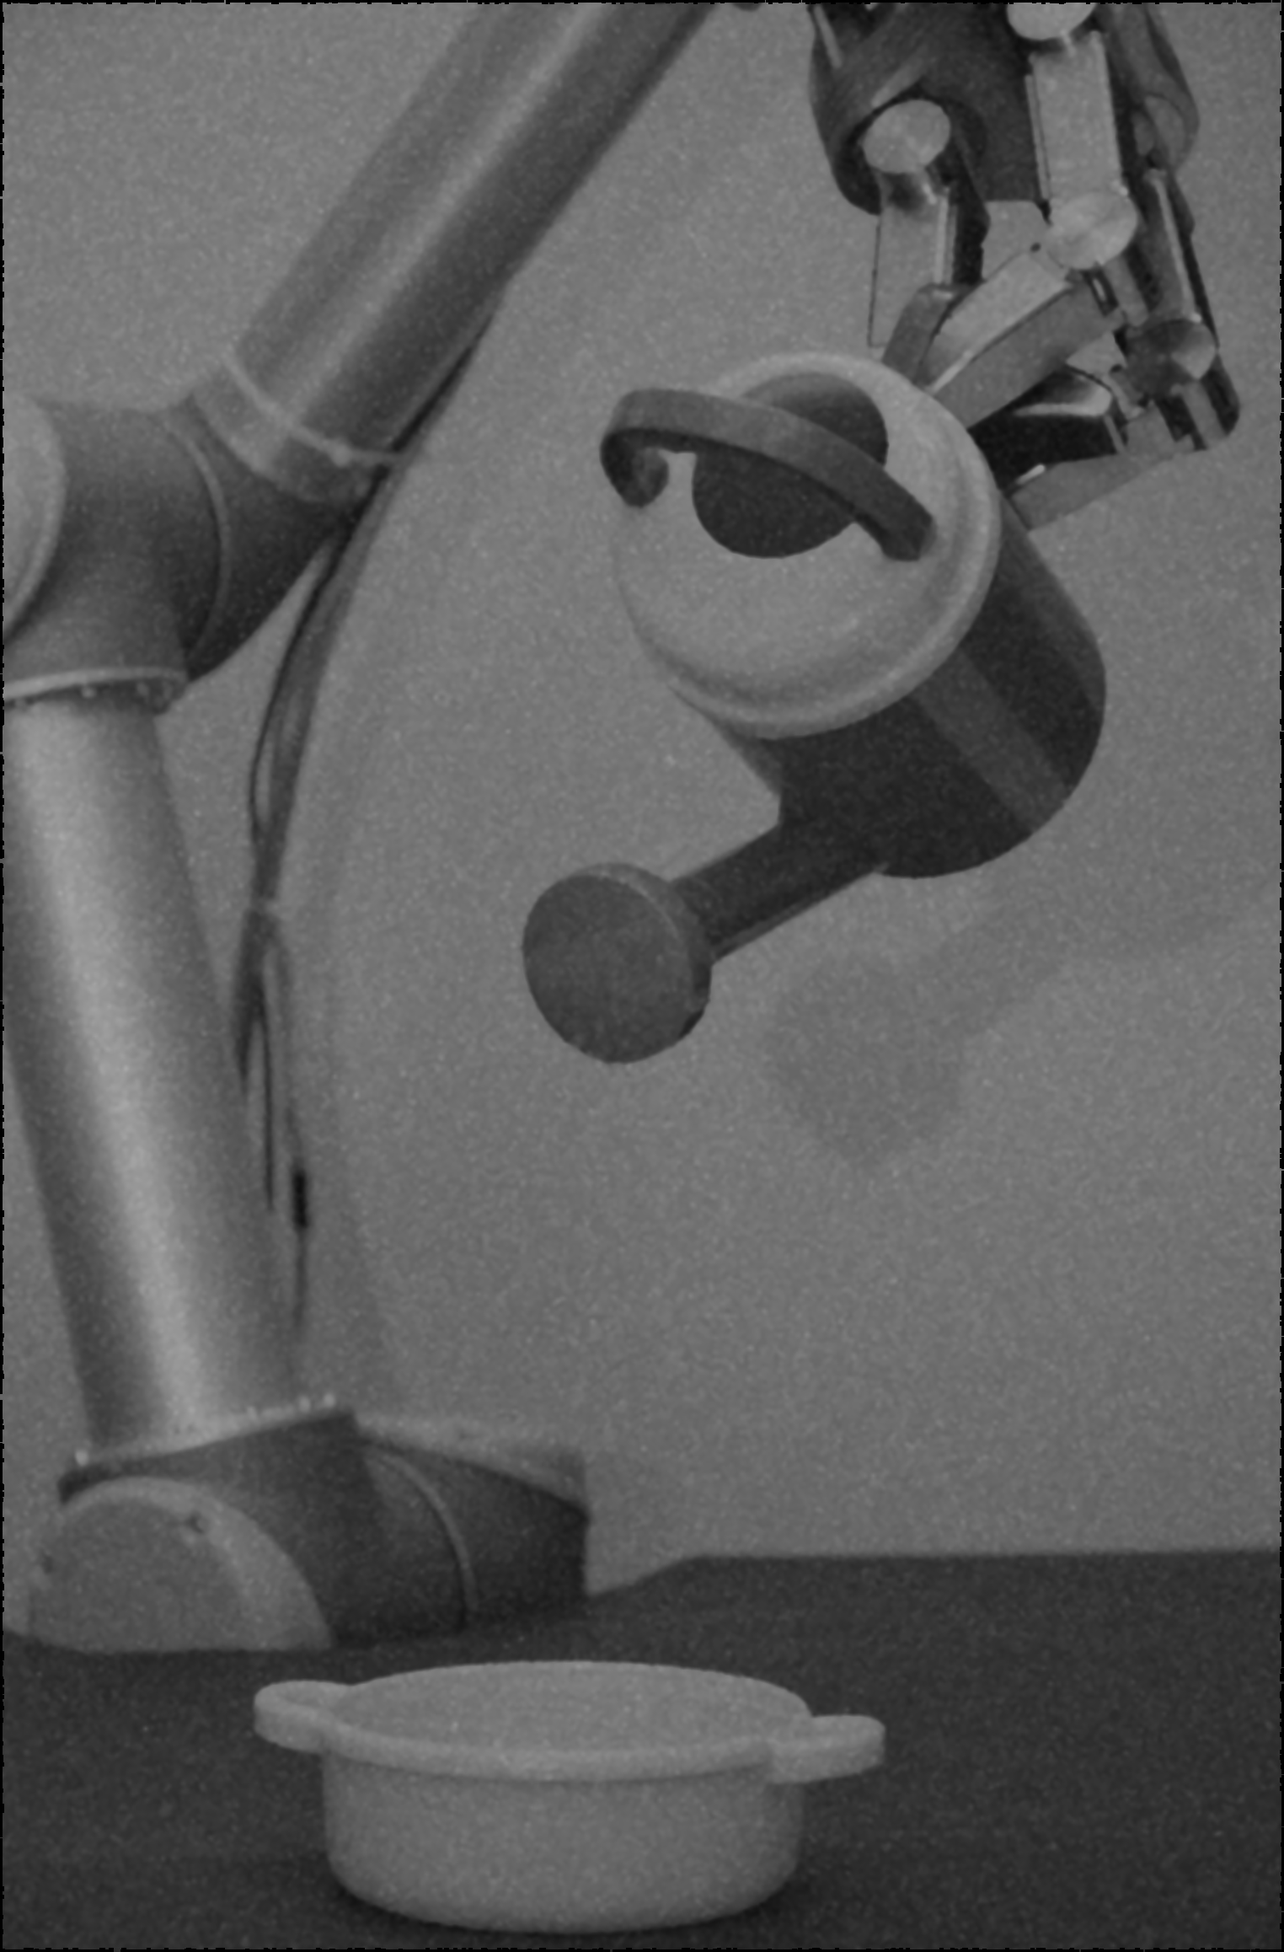
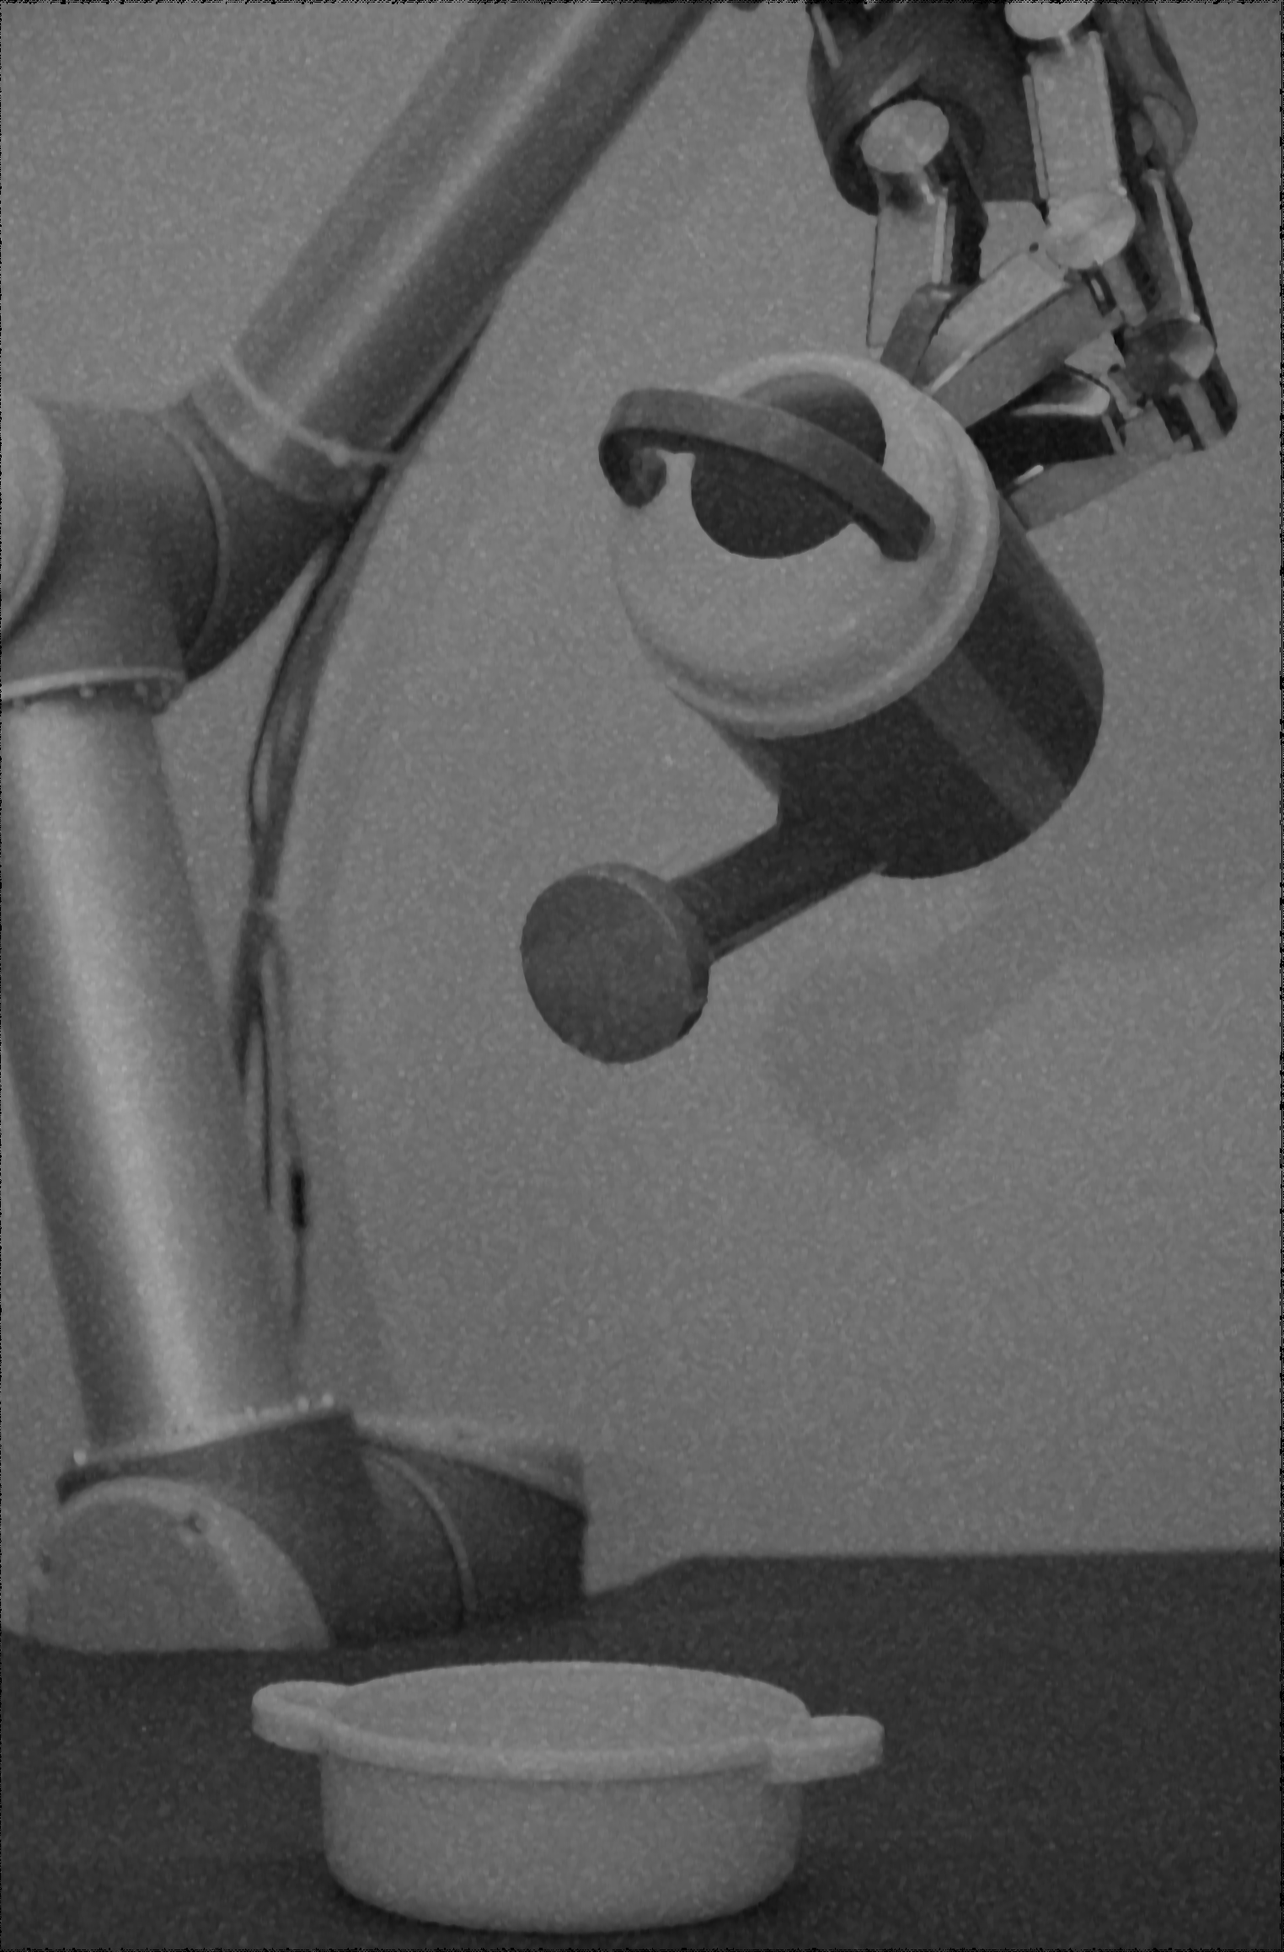
made the code more uniform

Changed region(s): [[0.0, 0.9948, 1.0, 1.0]]

diff --git a/miniproject01/code/imagerestoration/part02.cpp b/miniproject01/code/imagerestoration/part02.cpp
@@ -1,74 +1,66 @@
 #include "part02.h"
 #include "mean_filter.h"
 
-void part02(cv::Mat &image, cv::Mat &out){
+void part02(cv::Mat &image,
+            cv::Mat &final_out,
+            cv::Mat &hist_uniform,
+            cv::Mat &hist_median,
+            cv::Mat &hist_bilatteral,
+            cv::Mat &complex_median,
+            cv::Mat &complex_harmonic,
+            cv::Mat &complex_bilatteral,
+            cv::Mat &complex_histeq,
+            cv::Mat &complex_smoothed_histeq
+            ){
     cv::Mat temp, temp2;
     cv::Mat org = image.clone();
     cv::Mat uniform(org,AREA_UNIFORM);
     cv::Mat histImg, histogram;
-    //investigate uniform area
+
+//    investigate uniform area
     make_histogram(uniform,histImg,histogram);
     double quantile = what_is_the_S_P_damage(uniform);
-//    quantile = 0.55;
-        cv::imwrite("../../report/graphics/hist2_uniform.png",histImg);
-        cv::imshow("Uniform area", uniform/255);
+        hist_uniform = histImg.clone();
 
     temp = uniform.clone();
     temp2 = temp.clone();
     median_filter(uniform, temp,5,1,quantile);
     temp2 = temp.clone();
-        cv::imshow("median filter 5,1", temp / 255);
-    applyHomomorphicBlur(temp2,temp,5);
-        cv::imshow("homomophic blured", temp / 255);
+    applyHarmonicMean(temp2,temp,5);
         make_histogram(temp,histImg,histogram);
-            cv::imwrite("../../report/graphics/hist2_after_median.png",histImg);
+        hist_median = histImg.clone();
     temp2 = temp.clone();
     double mean,var;
     stat(temp2,temp,mean,var,10);
-    cv::imshow("histogram before",temp);
     std::cout << "mean: " << mean << " var: " << var << '\n';
-    applyHomomorphicBilatteral(temp2,temp,11,var,3);
+    cv::bilateralFilter(temp2,temp,11,var,3);
     temp2 = temp.clone();
-        cv::imshow("bilateral 11, 3, homomorphic uniform", temp / 255);
     make_histogram(temp,histImg,histogram);
-        cv::imwrite("../../report/graphics/hist2_after_bilatteral.png",histImg);
-        cv::imshow("histogram after1",histImg);
-    cv::imshow("median2", temp2 / 255);
+    hist_bilatteral = histImg.clone();
     double new_var;
     stat(temp2,temp,mean,new_var,10);
-    cv::imshow("histogram after",temp);
     std::cout << "mean: " << mean << " var: " << new_var << '\n';
     temp = temp2.clone();
-//    cv::waitKey(0);
 
-    cvDestroyAllWindows();
+//    Investigate complex area
     cv::Mat complex(org,AREA_COMPLEX);
     median_filter(complex,temp,5,1,quantile);
-    temp2 = temp.clone();
-        cv::imwrite("../../report/graphics/complex2_median.png",temp);
-        cv::imshow("median filtered", temp / 255);
-    applyHarmonicMean(temp2,temp,5);
-    temp2 = temp.clone();
-        cv::imwrite("../../report/graphics/complex2_harmonic.png",temp);
-        cv::imshow("harmonic mean", temp / 255);
-    applyHomomorphicBilatteral(temp2,temp,11,var,3);
-        cv::imwrite("../../report/graphics/complex2_bilatteral.png",temp);
-        cv::imshow("bilateral 11, 3, homomorphic", temp / 255);
-    temp2 = temp.clone();
-    applyHistogramEqualization(temp2,temp,15);
-    cv::imwrite("../../report/graphics/complex2_histeq.png",temp);
-    cv::imshow("hist eq", temp / 255);
-    temp = temp2.clone();
-    median_filter(temp2,temp,7,3);
-        cv::imshow("median 2", temp / 255);
-    temp2 = temp.clone();
-    applyHistogramEqualization(temp2,temp,15);
-    cv::imwrite("../../report/graphics/complex2_histeq_smoothed.png",temp);
-        cv::imshow("hist eq after", temp / 255);
-//    cv::waitKey(0);
+    complex_median = temp.clone();
+    applyHarmonicMean(complex_median,temp,5);
+    complex_harmonic = temp.clone();
+    cv::bilateralFilter(complex_harmonic,temp,11,var,3);
+    complex_bilatteral = temp.clone();
+//    See if the image gets better with equalization
+    applyHistogramEqualization(complex_bilatteral,temp,15);
+    complex_histeq = temp.clone();
 
-    //apply to large image
-    median_filter(image, out,5,1,quantile);
-    applyHarmonicMean(out, temp, 5);
-    applyHomomorphicBilatteral(temp,out,11,var,3);
+    median_filter(temp2,temp,7,3);
+    temp2 = temp.clone();
+    applyHistogramEqualization(temp2,temp,15);
+    complex_smoothed_histeq = temp.clone();
+
+//    apply to large image
+    median_filter(image, final_out,5,1,quantile);
+    applyHarmonicMean(final_out, temp, 5);
+    cv::bilateralFilter(temp,final_out,11,var,3);
 }

diff --git a/miniproject01/code/imagerestoration/part01.cpp b/miniproject01/code/imagerestoration/part01.cpp
@@ -2,7 +2,15 @@
 #include "analyse_freq.h"
 #include "mean_filter.h"
 
-void part01(cv::Mat_<float> &original_image, cv::Mat_<float> &output_image){
+void part01(cv::Mat &original_image,
+            cv::Mat &output_image,
+            cv::Mat &hist_uniform,
+            cv::Mat &hist_median,
+            cv::Mat &complex_median,
+            cv::Mat &complex_geometric_blurred,
+            cv::Mat &complex_harmonic_blurred,
+            cv::Mat &complex_difference
+            ){
     cv::Mat org = original_image.clone();
     cv::Mat temp_image;
     cv::Mat uniform(org,AREA_UNIFORM);
@@ -11,57 +19,46 @@ void part01(cv::Mat_<float> &original_image, cv::Mat_<float> &output_image){
     cv::Mat histogram;
 
     make_histogram(uniform,histImg,histogram);
-    cv::imwrite("../../report/graphics/hist1_uniform.png", histImg);
+    hist_uniform = histImg.clone();
     double quantile = what_is_the_S_P_damage(uniform);
 
     median_filter(uniform, out,3,1,quantile);
     what_is_the_S_P_damage(out);
     make_histogram(out,histImg,histogram);
-    cv::imshow("../../report/graphics/hist1_uniform1.png", histImg);
     uniform = out.clone();
     median_filter(uniform, out,7,3,quantile);
     what_is_the_S_P_damage(out);
     make_histogram(out,histImg,histogram);
-    cv::imwrite("../../report/graphics/hist1_uniform2.png", histImg);
+    hist_median = histImg.clone();
 
-    cv::imshow("uniform area", uniform / 255);
-    cv::imshow("filtered uniform area", out / 255);
-//    cv::waitKey(0);
-//    cv::destroyAllWindows();
     cv::Mat complex(org,AREA_COMPLEX);
 
     out = complex.clone();
-    cv::imshow("Original image", out / 255);
     temp_image = complex.clone();
     median_filter(complex, temp_image, 3, 1, quantile);
     complex = temp_image.clone();
 
     out = temp_image.clone();
-    cv::imshow("3x3 median filter", out / 255);
 
     median_filter(out, temp_image, 7, 3, quantile);
 
     complex = temp_image.clone();
-    cv::imwrite("../../report/graphics/complex1_step2.png", temp_image);
-    cv::imshow("7x7 median filter, mean of 3", temp_image / 255);
+    complex_median = temp_image.clone();
 
-    cv::blur(complex,temp_image,cv::Size(5,5));
-    cv::imwrite("../../report/graphics/complex1_blurred.png", temp_image);
-    cv::imshow("alm smooth",temp_image / 255);
+    applyGeometricMean(complex,temp_image,5);
+    complex_geometric_blurred = temp_image.clone();
 
-    applyHomomorphicBlur(complex,out,5);
-    cv::imwrite("../../report/graphics/complex1_homomorphic_blurred.png", out);
-    cv::imshow("homomorphic filtered",out / 255);
-//              white - black
-    complex = ((out   - temp_image)*50 + 127);
-    cv::imwrite("../../report/graphics/complex1_blurr_difference_50.png",complex);
+    applyHarmonicMean(complex,out,5);
+    complex_harmonic_blurred = out.clone();
+//              white                    - black
+    complex = ((complex_harmonic_blurred - complex_geometric_blurred)*50 + 127);
+    complex_difference = complex.clone();
 
-//    cv::waitKey(0);
     //Apply all this to the large image:
     output_image = original_image.clone();
     median_filter(original_image, output_image,3,1,quantile);
     temp_image = output_image.clone();
     median_filter(temp_image, output_image,7,3,quantile);
     temp_image = output_image.clone();
-    applyHomomorphicBlur(temp_image,output_image,5);
+    applyHarmonicMean(temp_image,output_image,5);
 }

diff --git a/miniproject01/report/sections/pepper.tex b/miniproject01/report/sections/pepper.tex
@@ -53,22 +53,25 @@ Gaussian noise can be removed by applying an arithmetic mean filter.
 \end{figure}
 
 In figure \ref{fig:complex1_after_blur} can the effect of applying arithmetic mean to the image be seen.
-Since Gaussian noise is multiplicative instead of additive, an homomorphic blurring filter is applied.
-\todo[inline]{isn't gaussian additive? \url{https://en.wikipedia.org/wiki/Additive_white_Gaussian_noise}}
 By taking the image into logarithmic space, the noise becomes additive and thus can be separated with a arithmetic mean filter.
-In figure \ref{fig:complex1_after_homomorphic} can the effect of using a homomorphic arithmetic mean filter be seen.
+In figure \ref{fig:complex1_after_harmonic} can the effect of using a harmonic mean arithmetic mean filter be seen.
 Both filters have the size of 5x5. The Difference is not that obvious from visual inspection so the difference is calculated using equation \ref{eq:img_diff_harVSgeo}.
-\todo[inline]{what a refrence :P just 3 pages down...}
+
+\begin{equation}
+I_{diff} = \left( I_{har} - I_{geo} \right) * A + 127
+\label{eq:img_diff_harVSgeo}
+\end{equation}
+
 The difference is shown in figure \ref{fig:complex1_blur_difference}.
 The difference is amplified 50 times in order to get a clear contrast between the two.
 Darker areas means regular blurring contains higher values.
 The most distinct difference between the images is the edges. 
 The edges are brighter after the regular filter. 
 The most visible edges on the difference image occurs where the image goes from a large area of light to a small area of dark.
-Thus the edges are better preserved on the homomorphic filter.
+Thus the edges are better preserved on the harmonic mean filter.
 In the lower right corner, the underside of the gripper is supposed to be dark.
-Therefore having higher values with the regular filter gives unwanted bright spots which the homomorphic filter removes.
-It is therefore concluded that the homomorphic filter is the best for this task.
+Therefore having higher values with the regular filter gives unwanted bright spots which the harmonic mean filter removes.
+It is therefore concluded that the harmonic mean filter is the best for this task.
 
 
 
@@ -83,14 +86,14 @@ It is therefore concluded that the homomorphic filter is the best for this task.
   
   \begin{subfigure}{\cutOutWidth}
     \includegraphics[width = \textwidth]{graphics/complex1_blurred.png}
-    \caption{Arithmetic.}
+    \caption{Geometric Mean.}
     \label{fig:complex1_after_blur}
   \end{subfigure}
 %
   \begin{subfigure}{\cutOutWidth}
-    \includegraphics[width = \textwidth]{graphics/complex1_homomorphic_blurred.png}
-    \caption{Homomorphic.}
-    \label{fig:complex1_after_homomorphic}
+    \includegraphics[width = \textwidth]{graphics/complex1_harmonic_blurred.png}
+    \caption{Harmonic mean.}
+    \label{fig:complex1_after_harmonic}
   \end{subfigure}
 \caption{Image in a complex area after applying different mean filters.}
 \end{figure}
@@ -99,7 +102,7 @@ The resulting sequence is thus:
 \begin{itemize}
  \item Shifted midpoint filter, kernel size 3x3, quantile of 80\%.
  \item Alpha mean filter, kernel size 7x7, quantile of 80\%, mean width of 3.
- \item Homomorphic arithmetic mean filter, kernel size 5x5.
+ \item Harmonic mean filter, kernel size 5x5.
 \end{itemize}
 
 The final image of image 1 can be seen in figure \ref{fig:final_image1}.

diff --git a/miniproject01/code/imagerestoration/main.cpp b/miniproject01/code/imagerestoration/main.cpp
@@ -38,17 +38,33 @@ int main(){
 
     // part 1
     if(to_run & PART(1)){
+        cv::Mat hist_uniform, hist_median, complex_median, complex_geometric_blurred, complex_harmonic_blurred, complex_difference;
         image = cv::imread( image_names.at(0) , CV_LOAD_IMAGE_GRAYSCALE );
 
-        part01(image,out);
+        part01(image, out, hist_uniform, hist_median, complex_median, complex_geometric_blurred, complex_harmonic_blurred, complex_difference);
         cv::imwrite("../images/image_result_1.png",out);
+        cv::imwrite("../../report/graphics/hist1_uniform.png", hist_uniform);
+        cv::imwrite("../../report/graphics/hist1_uniform2.png", hist_median);
+        cv::imwrite("../../report/graphics/complex1_step2.png", complex_median);
+        cv::imwrite("../../report/graphics/complex1_blurred.png", complex_geometric_blurred);
+        cv::imwrite("../../report/graphics/complex1_harmonic_blurred.png", complex_harmonic_blurred);
+        cv::imwrite("../../report/graphics/complex1_blurr_difference_50.png",complex_difference);
     }
     // part 2
     if(to_run & PART(2)){
+        cv::Mat hist_uniform, hist_median, hist_bilatteral, complex_median, complex_harmonic, complex_bilatteral, complex_histeq, complex_smoothed_histeq;
         image = cv::imread( image_names.at(1) , CV_LOAD_IMAGE_GRAYSCALE );
         out = image.clone();
-        part02(image, out);
+        part02(image, out, hist_uniform, hist_median, hist_bilatteral, complex_median, complex_harmonic, complex_bilatteral, complex_histeq, complex_smoothed_histeq);
         cv::imwrite("../images/image_result_2.png",out);
+        cv::imwrite("../../report/graphics/hist2_uniform.png",hist_uniform);
+        cv::imwrite("../../report/graphics/hist2_after_median.png",hist_median);
+        cv::imwrite("../../report/graphics/hist2_after_bilatteral.png",hist_bilatteral);
+        cv::imwrite("../../report/graphics/complex2_median.png",complex_median);
+        cv::imwrite("../../report/graphics/complex2_harmonic.png",complex_harmonic);
+        cv::imwrite("../../report/graphics/complex2_bilatteral.png",complex_bilatteral);
+        cv::imwrite("../../report/graphics/complex2_histeq.png",complex_histeq);
+        cv::imwrite("../../report/graphics/complex2_histeq_smoothed.png",complex_smoothed_histeq);
       }
     // part 3
     if(to_run & PART(3)){
@@ -95,12 +111,6 @@ int main(){
 
         cv::normalize(freq_restored, freq_restored, 0, 255, CV_MINMAX);
         cv::imwrite("../images/image_result_freq_04.png",freq_restored);
-
-
-//        namedWindow("Restored Image", cv::WINDOW_NORMAL);
-//        cv::normalize(image_res_04, image_res_04, 0, 1, CV_MINMAX);
-//        cv::imshow("Restored Image", image_res_04);
-
 
         cv::normalize(image_res_04, image_res_04, 0, 255, CV_MINMAX);
         cv::imwrite("../images/image_result_04.png",image_res_04);

diff --git a/miniproject01/report/sections/gaussian.tex b/miniproject01/report/sections/gaussian.tex
@@ -26,20 +26,18 @@ The black parts is not pepper noise but rather black added from the edge, where 
 \end{figure}
 
 The variance was found in the uniform area to be $37.3$.
-Gaussian noise remains and this was removed with a homomorphic bilateral filter.
+Gaussian noise remains and this was removed with a bilateral filter.
 A bilateral filter can simplify an image by removing Gaussian noise.
 If the image suffers from Gaussian noise, it can be assumed different colors within a variance is supposed to be the same color.
 A second parameter for the OpenCV implementation of the filter is the sigma space / intensity space. 
 This is kept low to avoid all colors from coming together. 
 A value of 3 has been chosen.
 In figure \ref{fig:hist2_bilateral} can it be seen that the variance has decreased to $18.2$ so the filter is deemed appropriate.
-Because the Gaussian noise is multiplicative, the bilateral filter is applied as a homomorphic filter.
-\todo[inline]{same as earlier..}
 
 \begin{figure}[H]
 \centering
 \includegraphics[width = \histogramWidth]{graphics/hist2_after_bilatteral.png}
-\caption{Histogram of the uniform area after homomorphic bilateral filter.}
+\caption{Histogram of the uniform area after applying a bilateral filter.}
 \label{fig:hist2_bilateral}
 \end{figure}
 
@@ -93,7 +91,7 @@ The resulting sequence is thus:
 \begin{itemize}
  \item Shifted median filter, kernel size 5x5, quantile of 40\%.
  \item Harmonic mean filter, kernel size 5x5.
- \item Homomorphic bilateral filter, kernel size 11x11, variance of $37.3$, depth of 3.
+ \item Bilateral filter, kernel size 11x11, variance of $37.3$, depth of 3.
 \end{itemize}
 The resulting image restoration of image 2 can be seen in figure \ref{fig:image_2_restored}.
 

diff --git a/miniproject01/report/sections/noise.tex b/miniproject01/report/sections/noise.tex
@@ -59,10 +59,10 @@ In order to compare the results from the geometric and harmonic images, the diff
 In figure \ref{fig:diff_harVSgeo_im03}, the amplified difference between the two images is plotted.
 This was accomplished using equation \ref{eq:img_diff_harVSgeo}, where $I_{diff}$, $I_{har}$ and $I_{geo}$ is the intensity of the difference image, harmonic mean filtered and geometric mean filtered image respectively and $A$ is the scalar the difference is amplified with.
 
-\begin{equation}
-I_{diff} = \left( I_{har} - I_{geo} \right) * A + 127
-\label{eq:img_diff_harVSgeo}
-\end{equation}
+% \begin{equation}
+% I_{diff} = \left( I_{har} - I_{geo} \right) * A + 127
+% \label{eq:img_diff_harVSgeo}
+% \end{equation}
 
 For this image a $A$ of five was used.
 Figure \ref{fig:diff_harVSgeo_im03} displays in dark/black the pixels of which the geometric mean filter gave the highest intensity, white for which it was the harmonic and grey for the values which are approximately equal.

diff --git a/miniproject01/report/sections/conclusion.tex b/miniproject01/report/sections/conclusion.tex
@@ -2,7 +2,7 @@
 
 Image processing can be used to restore an image.
 An image with pepper noise was restored using a alpha mean filter.
-An image with salt, pepper and Gaussian noise was restored with a median filter and a homomorphic bilatteral filter.
+An image with salt, pepper and Gaussian noise was restored with a median filter and a bilatteral filter.
 An image with Gaussian noise was restored with a harmonic mean filter.
 An image with noise in the frequency domain was restored using a notch filter that took several Butterworth filters and removed the noisy components.
 The different methods shown in the report, show that not everything gives a perfect output.

diff --git a/miniproject01/code/imagerestoration/part02.h b/miniproject01/code/imagerestoration/part02.h
@@ -9,4 +9,14 @@
 
 #pragma once
 
-void part02(cv::Mat &image, cv::Mat &out);
+void part02(cv::Mat &image,
+            cv::Mat &final_out,
+            cv::Mat &hist_uniform,
+            cv::Mat &hist_median,
+            cv::Mat &hist_bilatteral,
+            cv::Mat &complex_median,
+            cv::Mat &complex_harmonic,
+            cv::Mat &complex_bilatteral,
+            cv::Mat &complex_histeq,
+            cv::Mat &complex_smoothed_histeq
+            );

diff --git a/miniproject01/code/imagerestoration/part01.h b/miniproject01/code/imagerestoration/part01.h
@@ -8,4 +8,12 @@
 
 #pragma once
 
-void part01(cv::Mat_<float> &original_image, cv::Mat_<float> &output_image);
+void part01(cv::Mat &original_image,
+            cv::Mat &output_image,
+            cv::Mat &hist_uniform,
+            cv::Mat &hist_median,
+            cv::Mat &complex_median,
+            cv::Mat &complex_geometric_blurred,
+            cv::Mat &complex_harmonic_blurred,
+            cv::Mat &complex_difference
+            );
